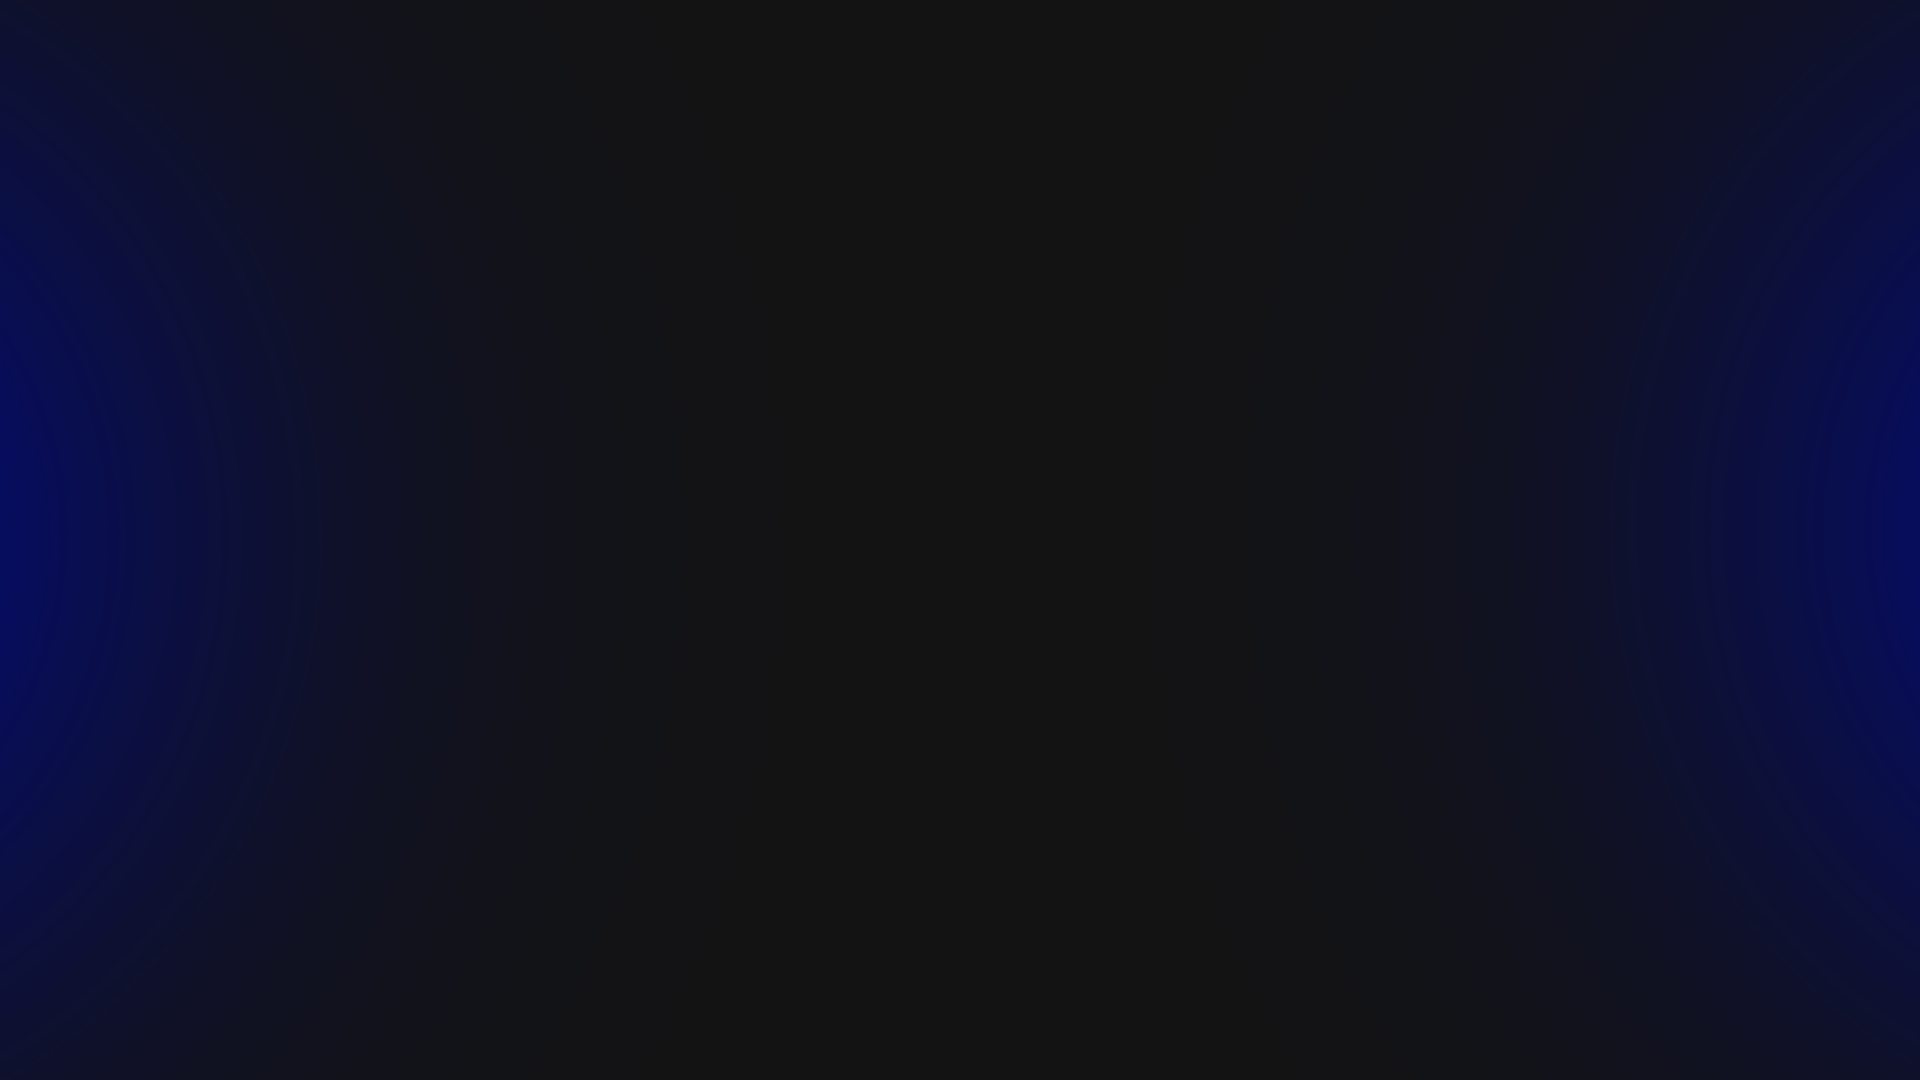
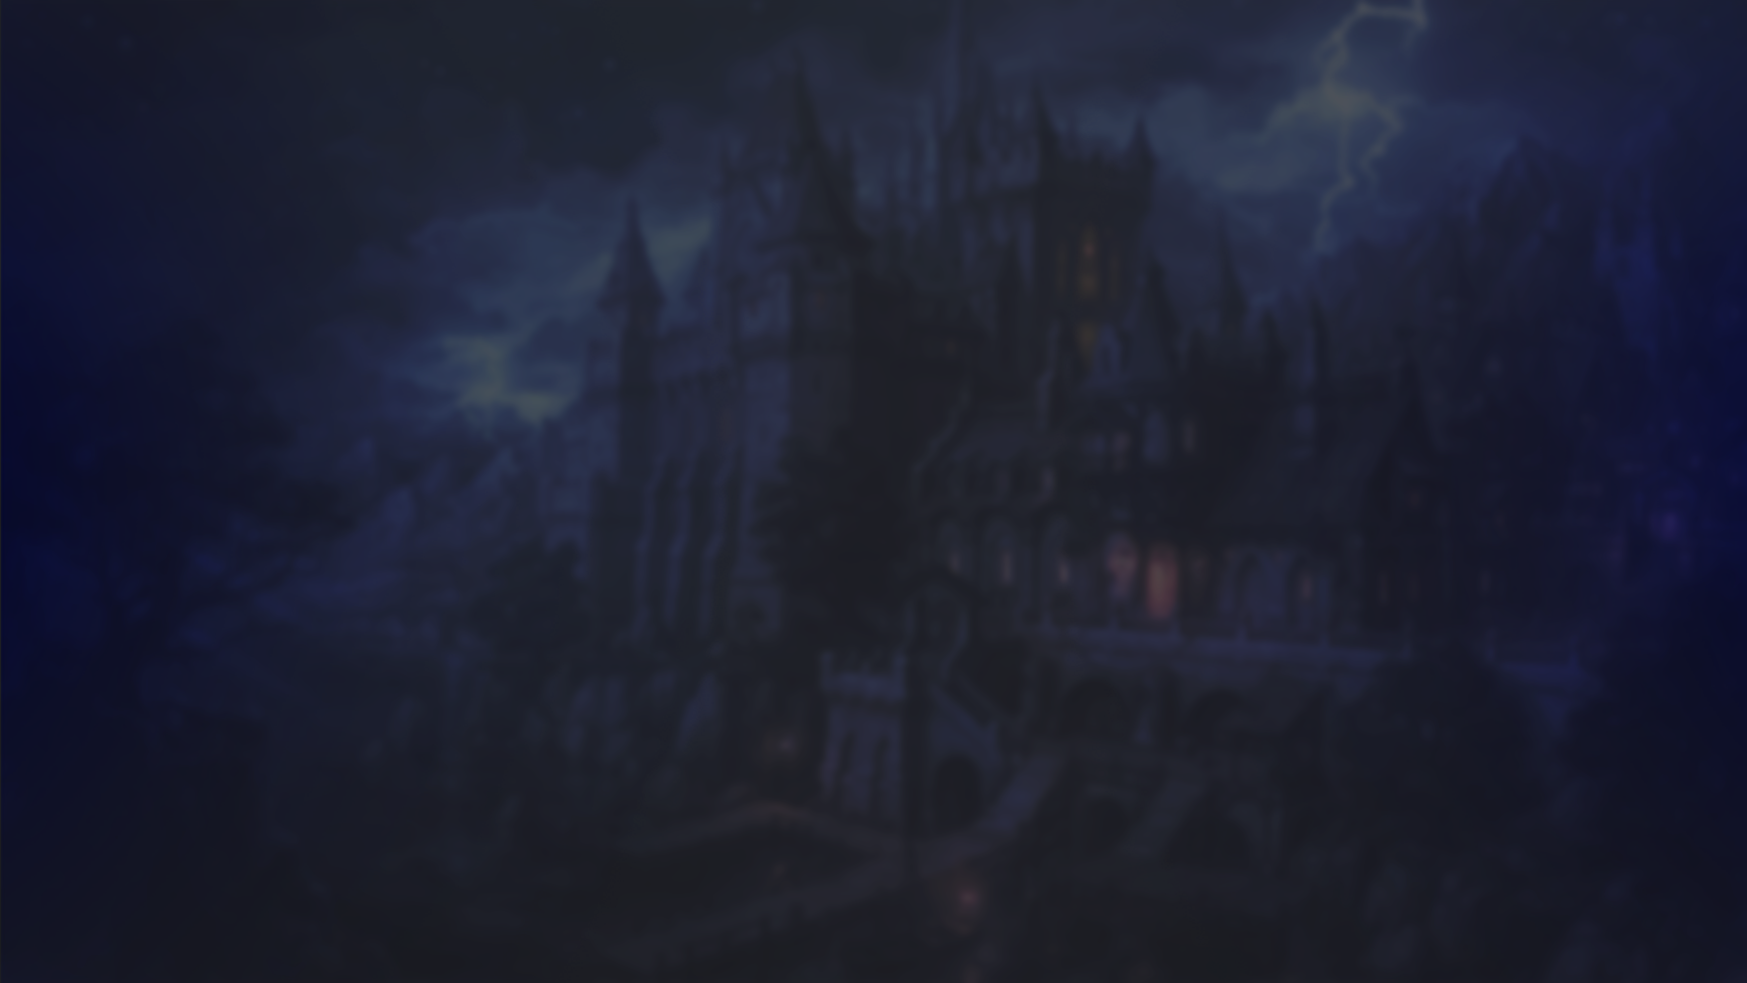
cosmetics

diff --git a/packages/dapp/src/components/NFTControls.vue b/packages/dapp/src/components/NFTControls.vue
@@ -71,12 +71,12 @@
             leave-to="opacity-0 scale-95"
           >
             <div
-              class="inline-block w-auto max-w-lg p-6 my-8 overflow-hidden text-left align-middle transition-all transform bg-gradient-to-r to-[#040a34] from-gray-900 rounded-md"
+              class="inline-block w-auto max-w-lg p-6 my-8 overflow-hidden text-left align-middle transition-all transform bg-slate-900 bg-opacity-90 rounded-md"
               style="box-shadow: 0 0 10px 3px rgb(59 130 246)"
             >
               <DialogTitle
                 as="h3"
-                class="text-center text-sm font-medium text-yellow-300"
+                class="text-center text-sm font-medium text-teal-700"
               >
                 SELL NFT
               </DialogTitle>
@@ -110,12 +110,12 @@
             leave-to="opacity-0 scale-95"
           >
             <div
-              class="inline-block w-auto max-w-lg p-6 my-8 overflow-hidden text-left align-middle transition-all transform bg-gradient-to-r to-[#040a34] from-gray-900 rounded-md"
+              class="inline-block w-auto max-w-lg p-6 my-8 overflow-hidden text-left align-middle transition-all transform bg-slate-900 bg-opacity-90 rounded-md"
               style="box-shadow: 0 0 10px 3px rgb(59 130 246)"
             >
               <DialogTitle
                 as="h3"
-                class="text-center text-sm font-medium text-yellow-300"
+                class="text-center text-sm font-medium text-teal-700"
               >
                 BUY NFT
               </DialogTitle>
@@ -147,12 +147,12 @@
             leave-to="opacity-0 scale-95"
           >
             <div
-              class="w-full inline-block max-w-lg p-6 my-8 overflow-hidden text-left align-middle transition-all transform bg-gradient-to-r to-[#040a34] from-gray-900 rounded-md"
+              class="w-full inline-block max-w-lg p-6 my-8 overflow-hidden text-left align-middle transition-all transform bg-slate-900 bg-opacity-90 rounded-md"
               style="box-shadow: 0 0 10px 3px rgb(59 130 246)"
             >
               <DialogTitle
                 as="h3"
-                class="text-center text-sm font-medium text-yellow-300"
+                class="text-center text-sm font-medium text-teal-700"
               >
                 TRANSFER NFT
               </DialogTitle>
@@ -186,12 +186,12 @@
             leave-to="opacity-0 scale-95"
           >
             <div
-              class="inline-block w-auto max-w-lg p-6 my-8 overflow-hidden text-left align-middle transition-all transform bg-gradient-to-r to-[#040a34] from-gray-900 rounded-md"
+              class="inline-block w-auto max-w-lg p-6 my-8 overflow-hidden text-left align-middle transition-all transform bg-slate-900 bg-opacity-90 rounded-md"
               style="box-shadow: 0 0 10px 3px rgb(59 130 246)"
             >
               <DialogTitle
                 as="h3"
-                class="text-center text-sm font-medium text-yellow-300"
+                class="text-center text-sm font-medium text-teal-700"
               >
                 CANCEL LISTING
               </DialogTitle>

diff --git a/packages/dapp/src/views/HomePage.vue b/packages/dapp/src/views/HomePage.vue
@@ -15,8 +15,8 @@
                 <FontAwesomeIcon :icon="['fas', 'users']" size="2x" />
               </div>
               <div class="text-right">
-                <h4 class="text-2xl font-semibold text-slate-400">200,341</h4>
-                <div class="text-slate-400">Total Holders</div>
+                <h4 class="text-2xl font-semibold text-teal-700">200,341</h4>
+                <div class="text-white">Total Holders</div>
               </div>
             </div>
             <div
@@ -27,8 +27,8 @@
                 <FontAwesomeIcon :icon="['fas', 'dollar-sign']" size="2x" />
               </div>
               <div class="text-right">
-                <h4 class="text-2xl font-semibold text-slate-400">174.03</h4>
-                <div class="text-slate-500">Current Price</div>
+                <h4 class="text-2xl font-semibold text-teal-700">174.03</h4>
+                <div class="text-white">Current Price</div>
               </div>
             </div>
             <div
@@ -39,8 +39,8 @@
                 <FontAwesomeIcon :icon="['fas', 'users']" size="2x" />
               </div>
               <div class="text-right">
-                <h4 class="text-2xl font-semibold text-slate-400">138,019</h4>
-                <div class="text-slate-500">Total Commanders</div>
+                <h4 class="text-2xl font-semibold text-teal-700">138,019</h4>
+                <div class="text-white">Total Commanders</div>
               </div>
             </div>
             <div
@@ -51,8 +51,8 @@
                 <FontAwesomeIcon :icon="['fas', 'users']" size="2x" />
               </div>
               <div class="text-right">
-                <h4 class="text-2xl font-semibold text-slate-400">203,504</h4>
-                <div class="text-slate-500">Total Knights</div>
+                <h4 class="text-2xl font-semibold text-teal-700">203,504</h4>
+                <div class="text-white">Total Knights</div>
               </div>
             </div>
             <div
@@ -63,8 +63,8 @@
                 <FontAwesomeIcon :icon="['fas', 'users']" size="2x" />
               </div>
               <div class="text-right">
-                <h4 class="text-2xl font-semibold text-slate-400">7301</h4>
-                <div class="text-slate-500">Total Guilds</div>
+                <h4 class="text-2xl font-semibold text-teal-700">7301</h4>
+                <div class="text-white">Total Guilds</div>
               </div>
             </div>
             <div
@@ -75,8 +75,8 @@
                 <FontAwesomeIcon :icon="['fas', 'gem']" size="2x" />
               </div>
               <div class="text-right">
-                <h4 class="text-2xl font-semibold text-slate-400">3,103,187</h4>
-                <div class="text-slate-500">Rewards Pool</div>
+                <h4 class="text-2xl font-semibold text-teal-700">3,103,187</h4>
+                <div class="text-white">Rewards Pool</div>
               </div>
             </div>
           </div>

diff --git a/packages/dapp/src/views/CommandersPage.vue b/packages/dapp/src/views/CommandersPage.vue
@@ -54,31 +54,35 @@
               leave-to="opacity-0 scale-95"
             >
               <div
-                class="inline-block w-auto max-w-lg p-6 my-8 overflow-hidden text-left align-middle transition-all transform bg-gradient-to-r to-[#040a34] from-gray-900 rounded-md"
+                class="inline-block w-auto max-w-lg p-6 my-8 overflow-hidden text-left align-middle transition-all transform bg-slate-900 bg-opacity-90 rounded-md"
                 style="box-shadow: 0 0 10px 3px rgb(59 130 246)"
               >
                 <DialogTitle
                   as="h3"
-                  class="text-center text-sm font-medium text-yellow-300"
+                  class="text-center text-sm font-medium text-teal-700"
                 >
                   <div
                     v-if="!isPresale"
                     class="flex justify-center items-center flex-col"
                   >
-                    <div class="flex justify-center text-lg items-center mb-1">
+                    <div
+                      class="flex justify-center text-lg items-center mb-1 text-white"
+                    >
                       {{ mintFee }} DK
                       <DKIcon class="w-8 h-8 ml-1" />
                     </div>
                     <span class="text-red-500 text-2xl font-bold">+</span>
 
-                    <div class="flex justify-center text-lg items-center mt-1">
+                    <div
+                      class="flex justify-center text-lg items-center mt-1 text-white"
+                    >
                       {{ stableFee }} BNB
                       <BNBIcon class="h-8 w-8 ml-1" />
                     </div>
                   </div>
                   <div
                     v-if="isPresale"
-                    class="flex text-lg justify-center items-center"
+                    class="flex text-lg justify-center items-center text-white"
                   >
                     {{ presaleFee }} BNB
                     <BNBIcon class="w-8 h-8 ml-1" />

diff --git a/packages/dapp/src/views/KnightsPage.vue b/packages/dapp/src/views/KnightsPage.vue
@@ -54,31 +54,31 @@
               leave-to="opacity-0 scale-95"
             >
               <div
-                class="inline-block w-auto max-w-lg p-6 my-8 overflow-hidden text-left align-middle transition-all transform bg-gradient-to-r to-[#040a34] from-gray-900 rounded-md"
+                class="inline-block w-auto max-w-lg p-6 my-8 overflow-hidden text-left align-middle transition-all transform bg-slate-900 bg-opacity-90 rounded-md"
                 style="box-shadow: 0 0 10px 3px rgb(59 130 246)"
               >
                 <DialogTitle
                   as="h3"
-                  class="text-center text-sm font-medium text-yellow-300"
+                  class="text-center text-sm font-medium text-teal-700"
                 >
                   <div
                     v-if="!isPresale"
                     class="flex justify-center items-center flex-col"
                   >
-                    <div class="flex text-lg items-center mb-2">
+                    <div class="flex text-lg items-center mb-2 text-white">
                       {{ mintFee }} DK
                       <DKIcon class="w-8 h-8 ml-1" />
                     </div>
                     <span class="text-red-500 text-2xl font-bold">+</span>
 
-                    <div class="flex text-lg items-center mt-2">
+                    <div class="flex text-lg items-center mt-2 text-white">
                       {{ stableFee }} BNB
                       <BNBIcon class="h-8 w-8 ml-1" />
                     </div>
                   </div>
                   <div
                     v-if="isPresale"
-                    class="flex text-lg justify-center items-center"
+                    class="flex text-lg justify-center items-center text-white"
                   >
                     {{ presaleFee }} BNB
                     <BNBIcon class="w-8 h-8 ml-1" />

diff --git a/packages/dapp/src/components/LayoutHeader.vue b/packages/dapp/src/components/LayoutHeader.vue
@@ -2,7 +2,7 @@
   <MenuDrawer v-model="drawer" />
   <div
     class="flex w-full fixed top-0 z-10 items-center h-20 transition-all duration-700"
-    :class="scroll ? 'bg-[#040a34] bg-opacity-90' : 'bg-transparent'"
+    :class="scroll ? 'bg-slate-900 bg-opacity-90' : 'bg-transparent'"
   >
     <div class="ml-5 lg:block hidden">
       <router-link to="/">
@@ -42,7 +42,7 @@
         </a>
 
         <button
-          class="mr-5 px-4 py-2 text-sm xl:text-sm border-2 border-[#1d28b8] ] rounded-lg hover:mix-blend-screen font-medium text-white"
+          class="mr-5 px-4 py-2 text-sm xl:text-sm border-2 border-teal-700 rounded-lg hover:mix-blend-screen font-medium text-white"
           :class="{ hidden: account.isConnected }"
           @click="connect()"
         >
@@ -56,7 +56,7 @@
         >
           <div class="flex items-center">
             <MenuButton
-              class="flex justify-center items-center w-full px-4 py-2 text-sm xl:text-sm font-medium border-2 border-[#1d28b8] rounded-lg hover:bg-blue-900/30"
+              class="flex justify-center items-center w-full px-4 py-2 text-sm xl:text-sm font-medium border-2 border-teal-700 rounded-lg hover:bg-blue-900/30"
               ><span>
                 {{ account.croppedAddress }}
               </span>
@@ -76,7 +76,7 @@
             leave-to-class="transform scale-95 opacity-0"
           >
             <MenuItems
-              class="text-white text-sm mt-2 p-2 font-medium border border-[#1d28b8] bg-[#040a34] bg-opacity-90 absolute right-0 rounded-lg shadow-lg w-48"
+              class="text-white text-sm mt-2 p-2 font-medium border border-teal-700 bg-slate-900 bg-opacity-90 absolute right-0 rounded-lg shadow-lg w-48"
             >
               <MenuItem>
                 <span

diff --git a/packages/dapp/src/views/GuildsPage.vue b/packages/dapp/src/views/GuildsPage.vue
@@ -135,12 +135,12 @@
               leave-to="opacity-0 scale-95"
             >
               <div
-                class="inline-block w-auto max-w-lg p-6 my-8 overflow-hidden text-left align-middle transition-all transform bg-gradient-to-r to-[#040a34] from-gray-900 rounded-md"
+                class="inline-block w-auto max-w-lg p-6 my-8 overflow-hidden text-left align-middle transition-all transform bg-slate-900 bg-opacity-90 rounded-md"
                 style="box-shadow: 0 0 10px 3px rgb(59 130 246)"
               >
                 <DialogTitle
                   as="h3"
-                  class="text-center text-lg font-medium text-yellow-300"
+                  class="text-center text-lg font-medium text-teal-700"
                 >
                   <div class="flex justify-center items-center">
                     {{ mintFee }} DK

diff --git a/packages/dapp/src/views/MarketCommanders.vue b/packages/dapp/src/views/MarketCommanders.vue
@@ -45,11 +45,11 @@
               leave-to="opacity-0 scale-95"
             >
               <div
-                class="inline-block w-auto max-w-lg p-6 my-8 overflow-hidden text-left align-middle transition-all transform bg-gradient-to-r to-[#040a34] from-gray-900 border-2 border-gray-700 shadow-xl rounded-lg"
+                class="inline-block w-auto max-w-lg p-6 my-8 overflow-hidden text-left align-middle transition-all transform bg-slate-900 bg-opacity-90 border-2 border-gray-700 shadow-xl rounded-lg"
               >
                 <DialogTitle
                   as="h3"
-                  class="text-center text-sm font-medium text-yellow-300"
+                  class="text-center text-sm font-medium text-teal-700"
                 >
                   <div
                     v-if="!isPresale"

diff --git a/packages/dapp/src/views/MarketKnights.vue b/packages/dapp/src/views/MarketKnights.vue
@@ -45,11 +45,11 @@
               leave-to="opacity-0 scale-95"
             >
               <div
-                class="inline-block w-auto max-w-lg p-6 my-8 overflow-hidden text-left align-middle transition-all transform bg-gradient-to-r to-[#040a34] from-gray-900 border-2 border-gray-700 shadow-xl rounded-lg"
+                class="inline-block w-auto max-w-lg p-6 my-8 overflow-hidden text-left align-middle transition-all transform bg-slate-900 bg-opacity-90 border-2 border-gray-700 shadow-xl rounded-lg"
               >
                 <DialogTitle
                   as="h3"
-                  class="text-center text-sm font-medium text-yellow-300"
+                  class="text-center text-sm font-medium text-teal-700"
                 >
                   <div
                     v-if="!isPresale"

diff --git a/packages/dapp/src/index.css b/packages/dapp/src/index.css
@@ -15,8 +15,8 @@
   }
 
   .shadow-text {
-    text-shadow: 0 0 5px blue, 0 0 10px blue, 0 0 15px blue, 0 0 20px blue,
-      0 0 35px blue, 0 0 40px blue;
+    text-shadow: 0 0 5px #0f766e, 0 0 10px #0f766e, 0 0 15px #0f766e,
+      0 0 20px #0f766e, 0 0 35px #0f766e, 0 0 40px #0f766e;
   }
 }
 
@@ -26,10 +26,10 @@
 }
 
 body {
-  @apply font-lato text-white;
+  @apply font-serif text-white bg-cover;
   background-color: #141416;
   background-image: url('/src/assets/bg-main.png');
-  background-size: 100% 100%;
+  /* background-size: 100% 100%; */
   background-repeat: no-repeat;
   background-position: center;
   background-attachment: fixed;

diff --git a/packages/dapp/src/components/PrimaryButton.vue b/packages/dapp/src/components/PrimaryButton.vue
@@ -1,6 +1,6 @@
 <template>
   <button
-    class="outlined border-2 border-[#1d28b8] rounded-lg shadow-lg px-3 py-2 text-sm xl:text-sm font-medium hover:bg-blue-900/30"
+    class="outlined border-2 border-teal-700 rounded-lg shadow-lg px-3 py-2 text-sm xl:text-sm font-medium hover:bg-blue-900/30"
   >
     <slot></slot>
   </button>

diff --git a/packages/dapp/src/components/MenuDrawer.vue b/packages/dapp/src/components/MenuDrawer.vue
@@ -45,10 +45,6 @@
 
 <style scoped>
   .drawer {
-    background-color: #141416;
-    background-image: url('/src/assets/bg-main.png');
-    background-size: 100% 100%;
-    background-repeat: no-repeat;
-    background-position: center;
+    @apply bg-slate-900 bg-opacity-90;
   }
 </style>
